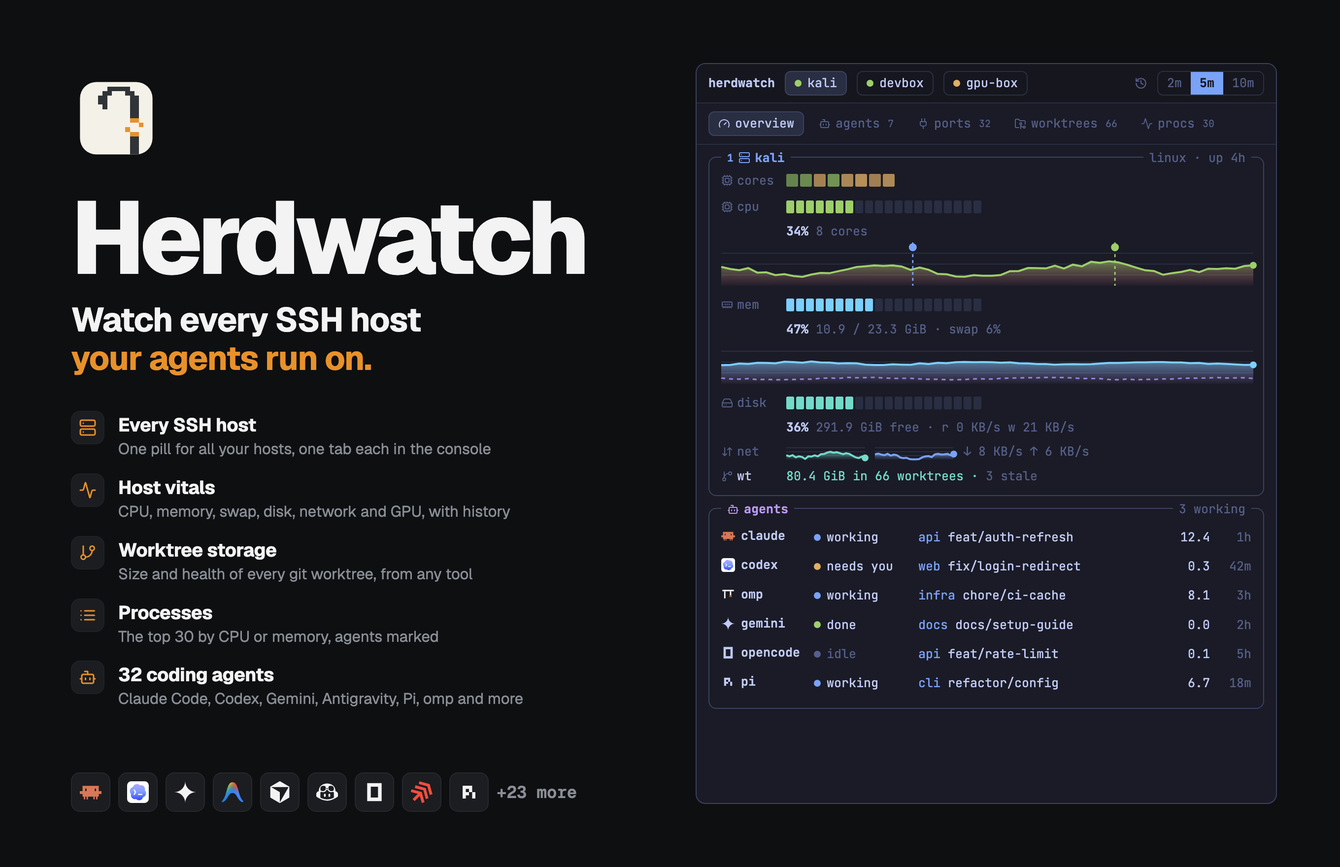
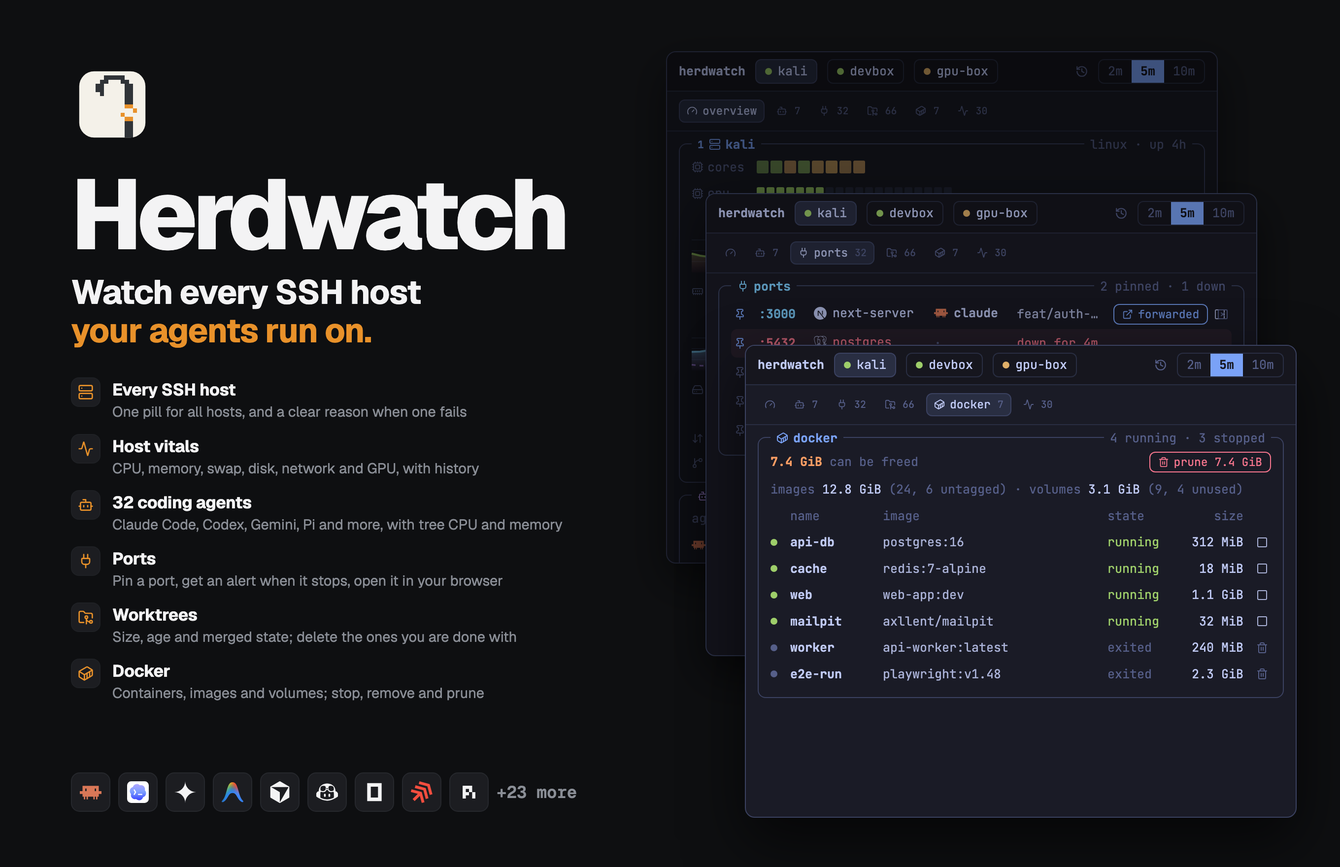
docs: new cover and a problem-first gallery description
- preview.png: the Cascade cover. Three console windows (overview,
  ports with a pinned port that is down, docker in front) beside six
  features: hosts, vitals, agents, ports, worktrees and Docker.
- RECIPE.md: the gallery blurb says the problem first and fits the
  500-character limit of the gallery (494 characters). The gallery
  search matches name, blurb and owner as one lowercase substring, so
  the blurb carries the words people search for: ssh, server, remote,
  VPS, homelab, system and resource monitor, btop, htop, CPU, RAM, GPU,
  Docker, containers, ports, git worktrees, Claude Code, Codex, kill,
  alert. The recipe also describes the docker tab, the actions, the
  confirm dialog, pins and clear errors, and its mod.json title matches
  the real file.
- README.md: the docker view, the actions table, clear errors, the new
  settings, pins.conf, what runs on each host, and troubleshooting.

diff --git a/RECIPE.md b/RECIPE.md
@@ -1,6 +1,6 @@
 # Herdwatch - SSH server monitor for coding agents
 
-Your coding agents run on remote servers, and you cannot see what they do there. Herdwatch shows every SSH host inside Herdr. A pill in the tab row shows each host's CPU. A click opens a btop-style system monitor: CPU, memory, disk, network and GPU history, top processes, the Claude Code, Codex and other agents that run and which ones need you, the ports they leave open, and the git worktrees that fill the disk. For any server, VPS or homelab. Nothing to install on the server.
+Your coding agents run on remote servers, and from Herdr you cannot see when a host runs out of RAM or disk, which agent waits for you, or what still holds a port. Herdwatch is an SSH system and resource monitor for every server, VPS and homelab, like btop or htop in a side panel: CPU, memory, GPU, Docker containers, ports, git worktrees and Claude Code or Codex agents. Kill a process, open a remote port, get an alert, prune Docker or delete old worktrees. Nothing to install on the server.
 
 ![Herdwatch - SSH server monitor for coding agents](preview.png)
 
@@ -11,44 +11,52 @@ All colors are fixed Tokyo Night: background `#1a1b26`, dark `#16161e`, highligh
 **Interaction rule:** everything clickable has a frame or fill, a pointer cursor, a hover state (`#292e42`), a pressed state (`#3b4261`) and a tooltip. Nothing else reacts to hover.
 
 - **Pill** (a 340 px layout block at the right of the tab row; on the first install, Herdr docks it as a 36 px strip at the top of the window): 28 px high, radius 7, `#16161e`, border `#292e42` (blue while the console is open or on hover). Per host: the label in bold blue, then two readings, CPU and memory: each its glyph (`cpu`, `memory-stick`), a 4-cell meter (CPU green to red, memory cyan to magenta) and the percent (yellow with `!` at WARN, red with `!!` at CRIT). Hosts split by `│`. Then `│` and a side-panel icon, filled blue while the console is open. `✕` for a down host, `auth` for a refused login, `…` before the first poll, `?` after stale values.
-- **Console header** (40 px, `#16161e`): `herdwatch`, one tab per host with a health dot (green, yellow at WARN, red at CRIT or down), the range control `2m | 5m | 10m`, and a framed close button.
-- **Tab strip**: `overview`, `agents N`, `ports N`, `worktrees N`, `procs 30`. The open tab is framed and filled.
+- **Console header** (40 px, `#16161e`): `herdwatch`, one tab per host with a health dot (green, yellow at WARN, red at CRIT or down) and a tooltip with the SSH round-trip time (or, for a host that fails, the reason), the range control `2m | 5m | 10m`, and a framed close button.
+- **Tab strip**: `overview`, `agents N`, `ports N`, `worktrees N`, `docker N`, `procs 30`. The open tab is framed and filled.
+- **Notices** (above the tab content): a backend failure, a late poll, or a bad line in a config file (`settings.conf line 4: SSH_TIMEOUT=0 is not a positive number. Herdwatch uses 3.`). A host that fails shows a panel with the reason, the next step and how long it is down (`dns`, `login`, `hostkey`, `refused`, `unreachable`, `timeout`, `tailscale_check`, `ssh_config`, `remote_shell`, `probe_format`).
 - **overview**: a btop box titled `¹kali` with `linux · up 3h` in the top edge. Inside, top to bottom: `cores` (one cell per core, colored and dimmed by load); then CPU and then memory, the two readings that matter most, each a full-width block: its row (label, 20-cell meter) with the bold percent and the detail on a line under the meter (`8 cores`; used / total GiB and swap), then its area chart (CPU green to red with an end dot and markers for agent start, agent end and alerts; memory cyan to magenta with swap as a dashed purple line), 46 px high, growing from the right. Then rows: `disk` (20-cell meter, with the percent, free space and read and write rate under it), `net` (two sparklines, down and up rate), `gpu` (when the host has an NVIDIA GPU; numbers under the meter, as disk), `wt` (worktree total, count, stale count). Below: the agents box.
-- **agents**: one row per coding agent session: the agent's mark and name, state (`working` blue, `needs you` yellow, `idle` gray, `done` green), repository and branch (or the folder), a 2.5-minute CPU sparkline (wide panes), CPU and uptime.
-- **ports**: listening TCP ports, agent-owned first: `:3000`, process, the agent that started it (found through the parent chain), and that agent's worktree. Ports of other users show `other user`.
-- **worktrees**: filter chips with counts (`all`, `stale > 14d`, `uncommitted`, `agent running`, `behind upstream`), the space reclaimable from stale worktrees, and a virtual list that fills the free height of the pane: size (teal to red by share of the largest), share meter, tool chip, repository, branch (`●` when an agent works there), `±changed files` or `clean`, and days since the last commit (orange when stale).
-- **procs**: a `CPU | MEM` sort control, then a table of the top 30: the agent's mark (or `●` for an agent run by node, bun or python), pid, program, CPU meter (wide panes), `cpu%` and `mem%` headers that also sort.
+- **agents**: one row per coding agent session: the agent's mark and name, state (`working` blue, `needs you` yellow, `idle` gray, `done` green), repository and branch (or the folder), a 2.5-minute CPU sparkline (wide panes), the CPU and memory of the agent's whole process tree (the tooltip names the programs in it), uptime and a kill button. The title says which agent uses the most.
+- **ports**: listening TCP ports, pinned first, then agent-owned: a pin button, `:3000`, process (with its program mark), the agent that started it (found through the parent chain), that agent's worktree, an open button and a kill button. A pinned port that stops listening stays in the list in red as `down`. Open starts an SSH tunnel bound to `127.0.0.1` and opens the browser; the row then shows `forwarded` and a stop button. Ports of other users show `other user`.
+- **worktrees**: filter chips with counts (`all`, `stale > 14d`, `merged`, `uncommitted`, `agent running`, `behind upstream`), the space reclaimable from stale worktrees, and a scroll list that fills the free height of the pane: size (teal to red by share of the largest), share meter, tool chip, repository, branch (`●` when an agent works there, a green `merged` tag when every commit is in a main branch and nothing is uncommitted), `±changed files` or `clean`, days since the last commit (orange when stale) and a delete button (off while an agent works there). The row tooltip gives the created date and the last git activity.
+- **docker**: the space that a prune frees and a prune button, a line with the images and volumes (size, count, untagged images, unused volumes), then the containers (running first: name, image, state, size, a stop or remove button). `DOCKER=off` hides the data; a host without Docker, or without access to its socket, says so.
+- **procs**: a `CPU | MEM` sort control, then a table of the top 30: the agent's mark (or `●` for an agent run by node, bun or python), pid, program with its mark (Node.js, Next.js, Python, PostgreSQL, Redis, nginx, Docker and others; never the sheep), CPU meter (wide panes), `cpu%` and `mem%` headers that also sort, and a kill button.
+- **Confirm dialog** (a modal Herdr overlay, 480 px): the title (red for a destructive action), what the action touches, the warnings in yellow (`3 files have uncommitted changes. They will be lost.`), check boxes for the options that do more (delete the branch too, delete unused volumes), and `Cancel` and the action button (`Enter` and `Esc` work). A failure stays in the dialog with its detail. A kill that leaves processes alive offers `Force kill`.
 - **Footer**: `● agent │ [c] cpu [m] mem [1-4] host [⌘⇧M] toggle`, and `keys on` or `click the pane for keys`.
 - **Agent marks**: each agent shows its own mark at 14 px, the way Herdr's sidebar draws it (a picture as it is, a one-color glyph in the text color). The marks of agents in Herdr's program table come from Herdr's `icons/` folder; the mod ships the others in `icons/agents/` (sources and licenses in `icons/agents/LICENSES.md`). An agent without a mark gets the Herdwatch pixel sheep in the agent's own accent color.
-- **Navigation glyphs**: 12 px Lucide glyphs (ISC, in `icons/ui/`) in the text color of their control, one glyph per concept: `gauge` overview, `bot` agents, `plug` ports, `folder-git-2` worktrees, `activity` procs, `server` hosts, `cpu`, `memory-stick`, `hard-drive`, `arrow-down-up` network, `microchip` GPU, `git-branch`, `history` range, `arrow-down-wide-narrow` sort, `triangle-alert` notice, `keyboard` keys, and `layers`, `archive`, `file-diff`, `bot`, `arrow-down-to-line` on the worktree filters. In a pane narrower than 560 px, a tab that is not open shows only its glyph and count, and the agent columns show only the mark; the tooltips give the names.
+- **Navigation glyphs**: 12 px Lucide glyphs (ISC, in `icons/ui/`) in the text color of their control, one glyph per concept: `gauge` overview, `bot` agents, `plug` ports, `folder-git-2` worktrees, `activity` procs, `server` hosts, `cpu`, `memory-stick`, `hard-drive`, `arrow-down-up` network, `microchip` GPU, `git-branch`, `history` range, `arrow-down-wide-narrow` sort, `triangle-alert` notice, `keyboard` keys, `container` docker, `pin` pin, `external-link` open, `square` stop, `square-x` kill, `trash-2` delete, `check` check box, and `layers`, `archive`, `git-merge`, `file-diff`, `bot`, `arrow-down-to-line` on the worktree filters. In a pane narrower than 560 px, a tab that is not open shows only its glyph and count, and the agent columns show only the mark; the tooltips give the names.
 
 ## How it behaves
 
 - One copy polls at a time: it runs `bin/herdwatch snapshot` every 5 s (one parallel SSH poll per host) and writes three shared keys: `herdwatch.state` (the snapshot without worktree lists), `herdwatch.history` (120 samples per host, 30 per agent, events), and `herdwatch.worktrees` (written only when a new measure arrives). The poller holds a 12 s lease in `herdwatch.poller`; when the pill is not shown, the console takes the lease, so its data stays fresh. Other copies only read.
-- When the snapshot says `worktrees_due`, the poller also runs `bin/herdwatch worktrees`; the backend measures every 5 minutes.
+- When the snapshot says `worktrees_due`, the poller also runs `bin/herdwatch worktrees`; the backend measures every 5 minutes. `docker_due` runs `bin/herdwatch docker` in the same way, and the lists go to `herdwatch.docker`. Slow work never runs inside the 5 s poll.
+- Actions: a button builds a pending action, stores it in `herdwatch.pending` and opens the confirm dialog. Confirm runs `bin/herdwatch action <name> <label> [args]`, which prints one JSON result. The backend checks every argument against the last stored records (a pid, a worktree path or a container id that Herdwatch did not see is refused), then sends a fixed script over SSH stdin with the values as quoted arguments, and checks again on the host right before it deletes. It refuses the main checkout of a repository and a worktree where an agent works.
+- Pins live in `~/.config/herdwatch/pins.conf` (`<label> <port>`); the pin button rewrites the file and keeps its comments.
 - First run: the backend copies `examples/hosts.conf` and `examples/settings.conf` to `~/.config/herdwatch/`. With no hosts, the pill shows `herdwatch: add hosts` and the console names the file to edit.
 - Agent states come from Herdr.app's `agents()` when a Herdr agent on the same machine has the same app and folder; other agents are `working` from 3% CPU, else `idle`.
 - Each console keeps its own host, tab, range and worktree filter; the CPU/MEM sort is shared.
 - Keys in the console (click it first): `c` and `m` sort, `1` to `4` choose a host. `cmd-shift-m` or a click on the pill opens and closes the console; the focus returns to your terminal.
-- Alerts: ALERT_POLLS polls in a row at or above CRIT give one warning toast and the `blocked` sound, and a red marker on the CPU chart.
+- Alerts: ALERT_POLLS polls in a row at or above CRIT give one warning toast and the `blocked` sound, and a red marker on the CPU chart. A pinned port that stops listening gives one toast (`herdwatch: :3000 on devbox is down`).
+- Errors: a failed SSH poll keeps a `reason` and a `detail` (the line of SSH's output that names the cause) and the time of the first failure. A failed backend run gives `backend_timeout`, `backend_missing`, `runtime_dir`, `bad_output` or `mod_bug`. The pill shows `!` with a tooltip when the last poll failed.
 
 ## Built from
 
-- `mods/herdwatch/` (one mod; `props.view: "detail"` is the console, any other copy is the pill; `mod.json` is `{"place": "top", "size": 36, "title": "Herdwatch - SSH hosts monitor", "focusable": true}`):
-  - `main.js` (one view class for the pill and the console), `poller.js` (the poll lease, the poll, alerts), `backend.js` (runs `bin/herdwatch` and checks its JSON), `store.js` (Herdr shared keys and saved console choices), `console-pane.js` (open, close and the shortcut label), `snapshot.js`, `history.js`, `worktrees.js`, `agents.js` (joins host processes with `agents()`), `health.js`, `format.js`, `palette.js`, `schemas.js` (the data shapes). `views/`: `bar.js` (pill), `console.js` (the tabbed console), one `*-panel.js` file per tab, `charts.js` (`paint_path` area charts, sparklines, core strip) and `widgets.js` (btop box, meters, chips, keycaps, segmented control, tab strip, filter chips, icon button).
-  - `bin/herdwatch {snapshot|worktrees}` and `lib/` (Bash 3.2 + POSIX awk): config, collector, locks (`lock.sh`), SSH with watchdogs and a detached ControlMaster per host (`ssh.sh`), records, rates from counters between polls, alerts, JSON output.
+- `mods/herdwatch/` (one mod; `props.view: "detail"` is the console, any other copy is the pill; `mod.json` is `{"place": "top", "size": 36, "title": "Herdwatch - SSH server monitor for coding agents", "focusable": true}`):
+  - `main.js` (one view class for the pill and the console), `poller.js` (the poll lease, the poll, alerts), `backend.js` (runs `bin/herdwatch` and checks its JSON), `store.js` (Herdr shared keys and saved console choices), `console-pane.js` (open, close, the confirm dialog overlay and the shortcut label), `snapshot.js`, `history.js`, `worktrees.js`, `docker.js`, `agents.js` (joins host processes with `agents()`), `actions.js` (runs `bin/herdwatch action`), `action-dialogs.js` (the dialog text of each action), `pending-action.js`, `tunnels.js` (SSH tunnels as `hc` background terminals), `failure-guidance.js` (the reason and next step of each failure), `agent-marks.js`, `program-marks.js`, `health.js`, `format.js`, `palette.js`, `schemas.js` (the data shapes). `views/`: `bar.js` (pill), `console.js` (the tabbed console), one `*-panel.js` file per tab, `confirm-dialog.js`, `charts.js` (`paint_path` area charts, sparklines, core strip) and `widgets.js` (btop box, meters, chips, keycaps, segmented control, tab strip, filter chips, icon, row and text buttons, check box).
+  - `bin/herdwatch {snapshot|worktrees|docker|action}` and `lib/` (Bash 3.2 + POSIX awk): config with a problem list (`config.sh`, `problems.sh`), collector, locks (`lock.sh`), SSH with watchdogs, a detached ControlMaster per host and failure reasons (`ssh.sh`), records, rates from counters between polls, alerts, pins (`pins.sh`), Docker (`docker.sh`, `docker_probe.sh`), actions (`actions.sh` and the fixed remote scripts in `lib/action_scripts/`), JSON output.
   - `lib/probe/` (POSIX sh parts that the collector joins and sends over SSH stdin, about 1 s): CPU and per-core load, load, memory, swap, disk, disk and network counters, GPU via `nvidia-smi`, uptime, the top processes by CPU and by memory, agent sessions (35 agent commands, from Claude Code, Codex, Gemini, Copilot, Cursor and OpenCode to omp, Kimi, Qoder and Antigravity: the command name, the script of `node`/`bun`/`deno`/`python3.x`, or a native `<agent>/versions/<release>` install; named with Herdr's program table keys such as `cursor` and `kiro`; `cwd` from `/proc` or `lsof`; branch and repository from git), and listening ports (`ss` or `lsof`) with the owning agent.
-  - `lib/worktrees_probe.sh`: git linked worktrees from git's own records, with size, changed files, ahead/behind and last commit. The tool comes from the folder: `<repo>/.<tool>/worktrees/` (Claude, Gemini, Qwen, Qoder, Letta), `~/.cursor/worktrees`, `$CODEX_HOME/worktrees`, `~/.factory/worktrees` (Droid), `~/.omp/wt`, Conductor; else `git`.
+  - `lib/worktrees_probe.sh`: git linked worktrees from git's own records, with size, changed files, ahead/behind, last commit, created date, last git activity and the first of `MERGED_BRANCHES` that holds every commit. The tool comes from the folder: `<repo>/.<tool>/worktrees/` (Claude, Gemini, Qwen, Qoder, Letta), `~/.cursor/worktrees`, `$CODEX_HOME/worktrees`, `~/.factory/worktrees` (Droid), `~/.omp/wt`, Conductor; else `git`.
 - Charts: `PathBuilder.fill()` and `PathBuilder.stroke(w)` with percent coordinates, painted with `window.paint_path(path, Background.linear_gradient(...))` in an absolutely placed layer.
-- Worktree list: `uniform_list(id, count, key, (range) => rows)` in a `flex_1().min_h(0)` box; the worktrees tab has no outer scroll.
+- Worktree list: a `v_flex()` with `overflow_y_scrollbar()` in a `flex_1().min_h(0)` box, rows `flex_none()`; the worktrees and docker tabs have no outer scroll.
 - Layout: a `row` in place of the tab-row block: `[{the tabs block}, {"id": "herdwatch-bar", "type": "block", "size": {"px": 340}, "content": {"mod": "herdwatch", "props": {"view": "bar"}}}]`. `keys.json`: `"cmd-shift-m": "herdwatch.toggle"`.
 
 ## Watch out
 
-- **It runs programs and reaches the network.** Every 5 s it runs `ssh` to each host in `~/.config/herdwatch/hosts.conf`; every 5 minutes it runs `find`, `du` and `git status` on each host. Hosts need a key login without a prompt. Config files are data: never sourced; bad targets and bad worktree roots are refused.
+- **It runs programs and reaches the network.** Every 5 s it runs `ssh` to each host in `~/.config/herdwatch/hosts.conf`; every 5 minutes it runs `find`, `du` and `git status` on each host, and `docker info`, `docker ps -a`, `docker images` and `docker system df` when Docker is on. Hosts need a key login without a prompt. Config files are data: never sourced; bad targets and bad worktree roots are refused.
+- **It can kill and delete.** Never put a value from the UI into a remote command string. Send a fixed script on stdin and pass values as quoted arguments, only after they match a stored record. Docker ids must match `^[0-9a-f]{12,64}$`. Volumes are pruned only when the user ticks them.
 - Shared state outlives a mod update. Validate it when you read it: an old history shape broke every poll until the reader started over with an empty history.
 - In a mod pane, do not put `.on_mouse_down(stop_propagation)` on a clickable element: it cancels `on_click`. Never place clickable parts outside their parent with negative offsets.
-- `uniform_list` rows need `.w_full()`, or wide rows push the right columns out of view.
+- Rows of a list need `.w_full()`, or wide rows push the right columns out of view.
+- Do not use `uniform_list`, `list` or `v_virtual_list` for rows with buttons: Herdr throws on `on_click` inside an item renderer, and the list then draws no rows.
 - In POSIX `sh`, a tab in `IFS` is whitespace: two tabs in a row merge, so empty fields shift. Write a placeholder for empty fields.
 - On macOS a program path can contain spaces (`Application Support`), so read it from `comm`, not from `args`.
 - Install by copying `mods/herdwatch/` into `~/.config/herdr-app/mods/`; a symlink does not hot-reload.
@@ -64,4 +72,6 @@ All colors are fixed Tokyo Night: background `#1a1b26`, dark `#16161e`, highligh
 - `MEM`, the `mem%` header and the `m` key sort by memory; `c` sorts by CPU.
 - With the console shown and no pill, the console takes the poll lease within 20 s, and then `herdwatch.state` is never older than 10 s.
 - A new agent session appears in `agents` within 5 s; its port appears in `ports` with the agent and worktree.
-- The worktree list renders only the visible rows and shows the changed files and age columns in a narrow pane.
+- The worktree list shows its rows, with the changed files, age and delete columns, in a narrow pane.
+- A kill, a worktree delete and a Docker stop or prune each open the confirm dialog first; `Cancel` changes nothing.
+- A pinned port that stops gives one toast and a red `down` row; a host with a bad name shows `The name ... does not resolve.` with a next step.

diff --git a/README.md b/README.md
@@ -2,9 +2,11 @@
 
 # Herdwatch
 
-Your coding agents run on remote machines. From Herdr you cannot see if a host is out of memory, which agent waits for you, which dev server still holds a port, or how much disk the old worktrees take.
+Your coding agents run on remote machines. From Herdr you cannot see if a host is out of memory, which agent waits for you, which dev server still holds a port, how much disk the old worktrees take, or what Docker keeps on the disk.
 
-Herdwatch shows all of this for every SSH host, in one console inside [Herdr](https://herdr.dev). A pill in the tab row gives the CPU of each host at a glance.
+Herdwatch shows all of this for every SSH host, in one console inside [Herdr](https://herdr.dev). A pill in the tab row gives the CPU and memory of each host at a glance.
+
+You can also act from the console: kill a process tree, pin a port and get an alert when it stops, open a remote port in your browser, delete a merged worktree, and stop, remove or prune Docker. Every action asks first. When a host fails, Herdwatch tells you why and what to do.
 
 Your hosts need no daemon and no install. Herdwatch uses `ssh` and the tools that are already there.
 
@@ -61,17 +63,33 @@ To watch the Mac or Linux box Herdr runs on, add `localhost`. This needs a runni
 
 ![Many hosts](assets/cover-fleet.png)
 
-**The console.** It has one tab per host and five views:
+**The console.** It has one tab per host and six views:
 
 | View | What it shows |
 | --- | --- |
 | `overview` | CPU and memory history charts with agent start and finish markers, per-core load, disk use and I/O, network rates, GPU (NVIDIA), uptime |
-| `agents` | Each coding agent session on the host: app, state (`working`, `needs you`, `idle`, `done`), repository, branch, CPU, uptime |
-| `ports` | Listening TCP ports, and the agent that started each one (found through the parent processes) |
-| `worktrees` | Every git worktree with its size, uncommitted files, ahead/behind and age, with filters for stale, uncommitted, agent running and behind |
-| `procs` | The top 30 processes by CPU or memory; agent processes are marked |
+| `agents` | Each coding agent session on the host: app, state (`working`, `needs you`, `idle`, `done`), repository, branch, and the CPU and memory of the agent's whole process tree, uptime |
+| `ports` | Listening TCP ports, and the agent that started each one (found through the parent processes). Pinned ports stay on top, and show `down` when they stop |
+| `worktrees` | Every git worktree with its size, uncommitted files, ahead/behind and age, with filters for stale, merged, uncommitted, agent running and behind. The tooltip gives the created date and the last git activity |
+| `docker` | Containers with their state and size, images and volumes, and the space that a prune frees |
+| `procs` | The top 30 processes by CPU or memory; agent processes are marked, and common programs (Node.js, Python, PostgreSQL, Redis, nginx and others) show their logo |
 
-Keys in the console (click it first): `c` and `m` sort by CPU or memory, `1` to `4` choose a host. The range control switches the charts between 2, 5 and 10 minutes.
+Keys in the console (click it first): `c` and `m` sort by CPU or memory, `1` to `4` choose a host. The range control switches the charts between 2, 5 and 10 minutes. Hover a host tab to see the SSH round-trip time.
+
+**Actions.** Each action opens a dialog that says what it touches, and does nothing until you confirm (`Enter`) or cancel (`Esc`).
+
+| Where | Button | What it does |
+| --- | --- | --- |
+| `agents`, `ports`, `procs` | kill | Sends TERM to the process and every process under it. If some stay alive, the dialog offers `Force kill` |
+| `ports` | pin | Keeps the port on top. When it stops listening, you get one notification and a red `down` row |
+| `ports` | open | Opens the port in your browser through an SSH tunnel on `127.0.0.1`. A second click on a forwarded port opens it again; stop closes the tunnel |
+| `worktrees` | delete | Removes the worktree, and its branch if you tick the box. It warns about uncommitted files, and it refuses while an agent works there |
+| `docker` | stop, remove | Stops a running container, or removes a stopped one |
+| `docker` | prune | Deletes unused images. Unused volumes go only if you tick them, because their data is lost for good |
+
+Herdwatch checks each action again on the host right before it runs, and it never touches the main checkout of a repository. The same actions work from a terminal: `bin/herdwatch action {pin|unpin|kill|worktree-remove|docker-stop|docker-rm|docker-prune} <label> [args]`.
+
+**Clear errors.** A host that fails shows the reason and the next step, for example `The name devbox.lan does not resolve. Check the target of devbox in hosts.conf.` A bad line in a config file shows the file, the line and the value that Herdwatch uses instead.
 
 ![Worktree storage](assets/cover-disk-hunter.png)
 
@@ -117,7 +135,12 @@ The first poll creates `~/.config/herdwatch/settings.conf` with every key commen
 | `WORKTREE_DEPTH` | `7` | Folder levels to search below each root |
 | `WORKTREE_INTERVAL` | `300` | Seconds between worktree measures |
 | `WORKTREE_TIMEOUT` | `120` | Seconds before the measure of one host stops |
+| `MERGED_BRANCHES` | `main master develop trunk` | Branches that count for the `merged` tag; the default branch of `origin` is tried first |
+| `DOCKER` | `on` | The Docker tab; `off` stops the Docker measure |
+| `DOCKER_INTERVAL` | `300` | Seconds between Docker measures |
 | `AGENT_PATTERN` | the agent commands, `node`, `bun`, `python` | Regex that marks agent processes in `procs` |
+
+Pinned ports live in `~/.config/herdwatch/pins.conf`, one `<label> <port>` per line. The pin button writes this file for you.
 
 ## Put the pill in the tab row
 
@@ -144,8 +167,10 @@ On each host:
 
 - Every 5 s it runs a POSIX `sh` script over `ssh` stdin. The script uses `ps`, `top`, `df`, `ss` or `lsof`, `git rev-parse` and `/proc`. It takes about 1 s and writes only a temporary folder, which it deletes when it ends.
 - Every 5 minutes it runs `find`, `du` and `git status` under `WORKTREE_ROOTS`. On large worktrees this is the heaviest part, so raise `WORKTREE_INTERVAL` if you need to.
+- Every 5 minutes, if `docker` is there, it runs `docker info`, `docker ps -a`, `docker images` and `docker system df`.
+- Only when you confirm an action, it runs a fixed script for that action: `kill`, `git worktree remove` and `git branch -d`, or `docker stop`, `docker rm` and `docker image prune` / `docker volume prune`. The values from the console go in as quoted arguments, and only if they match what the last poll saw.
 
-Herdwatch sends no data anywhere else.
+Herdwatch sends no data anywhere else. An SSH tunnel for the open button listens on `127.0.0.1` only.
 
 ## Troubleshooting
 
@@ -153,7 +178,9 @@ Herdwatch sends no data anywhere else.
 | --- | --- | --- |
 | `herdwatch: add hosts` | `hosts.conf` has no hosts | Add a host |
 | `auth` on a host | SSH refused the key login | Run `ssh -o BatchMode=yes <target> true` and fix the key |
-| `✕` on a host | The host did not answer within `SSH_TIMEOUT` | Check the network, or raise `SSH_TIMEOUT` (below 5) |
+| `✕` on a host | The host did not answer | Hover the host, or open its tab: the console gives the reason and the next step |
+| `!` in the pill | The last poll failed | Hover it to read why |
+| A yellow line with a file and a line number | A bad value in `settings.conf`, `hosts.conf` or `pins.conf` | Fix that line; until then Herdwatch uses the value it names |
 | `?` on a host | The values are older than `STALE_SECONDS` | The polls stopped: check `~/.local/state/herdwatch/herdwatch.log` |
 | No worktrees | The first measure is still running, or `WORKTREE_ROOTS` is wrong | Wait 5 minutes, then check the roots |
 
